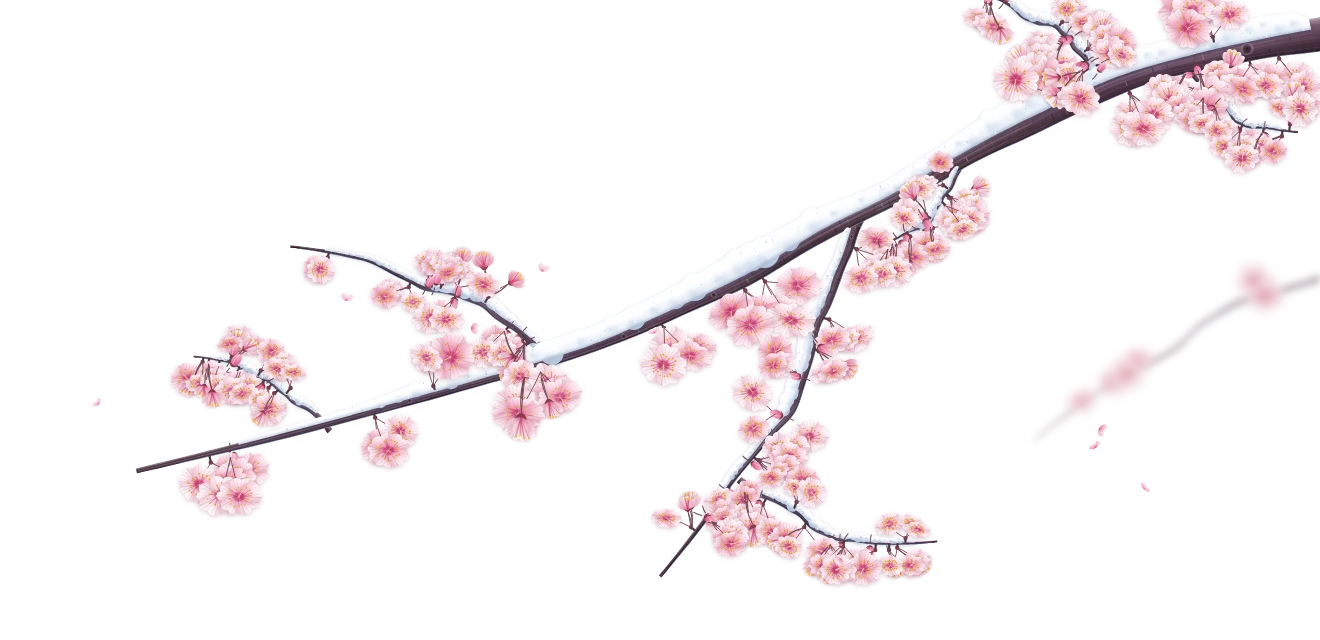
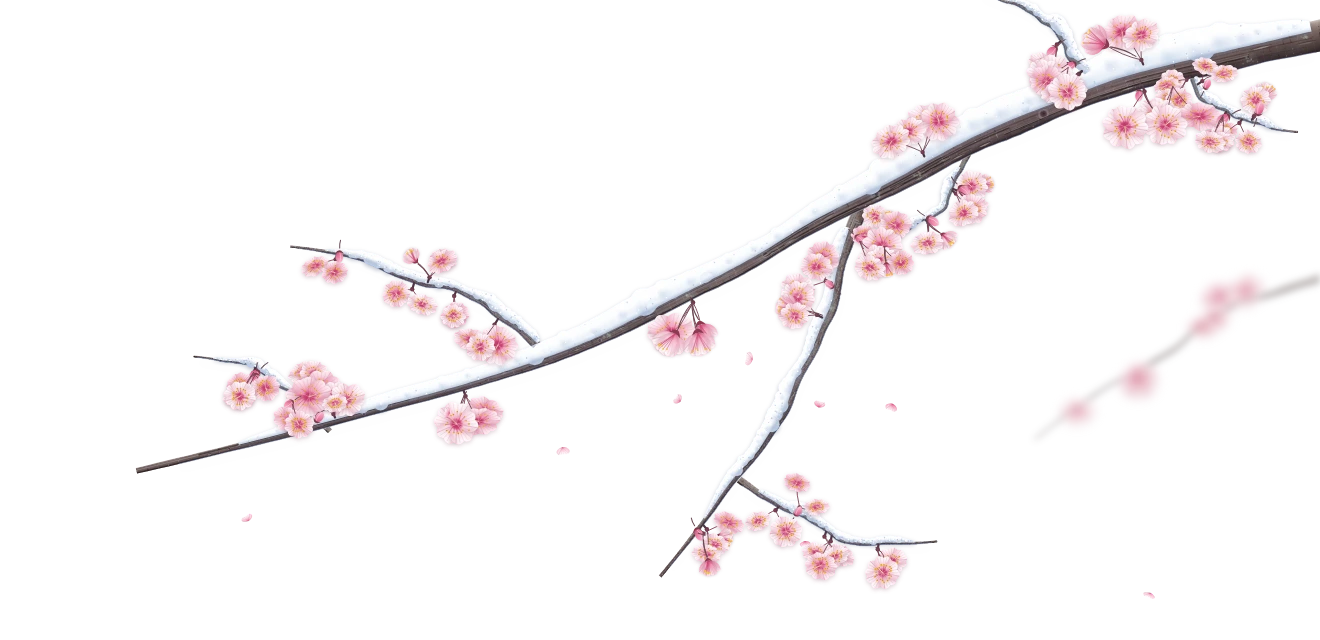
벚꽃 가지: 꽃 줄이고 마른 껍질 질감 추가
Claude-Session: https://claude.ai/code/session_01YCmkjirP6u3ZT6euM2pg4b

Changed region(s): [[0.0932, 0.0, 1.0, 0.9375], [0.9008, 0.4062, 0.9629, 0.5312], [0.8076, 0.5312, 0.8697, 0.6875]]

diff --git a/src/components/Pwa.tsx b/src/components/Pwa.tsx
@@ -32,7 +32,7 @@ export function useInstall() {
   return { state, install };
 }
 
-const PAGES = 'pages-v3'; // public/sw.js 와 같은 이름
+const PAGES = 'pages-v4'; // public/sw.js 와 같은 이름
 const TABS = ['', '/wish', '/money', '/check', '/info'];
 const warmed = new Set<string>();
 

diff --git a/public/sw.js b/public/sw.js
@@ -1,5 +1,5 @@
 /* 우리 여행 서비스 워커: 인터넷이 없어도 앱이 열리게 */
-const VER = 'v3';
+const VER = 'v4';
 const PAGES = 'pages-' + VER;
 const STATIC = 'static-' + VER;
 const PRECACHE = ['/', '/manifest.webmanifest', '/icons/icon-192.png', '/icons/icon-512.png'];
